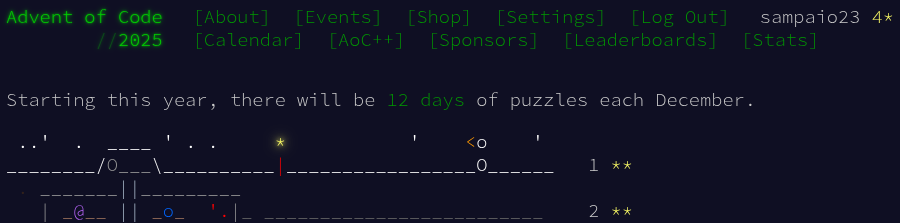
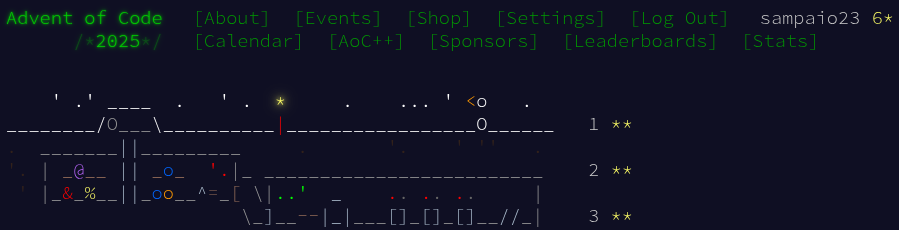
[03] Day 03 done

diff --git a/03/part2.rs b/03/part2.rs
@@ -1,0 +1,45 @@
+use std::fs::File;
+use std::io::Read;
+use std::path::Path;
+
+fn main() {
+    let path = Path::new("input");
+    let display = path.display();
+
+    let mut file = match File::open(&path) {
+        Err(why) => panic!("couldn't open {}: {}", display, why),
+        Ok(file) => file,
+    };
+
+    let mut sum: u64 = 0;
+
+    let mut s = String::new();
+    match file.read_to_string(&mut s) {
+        Err(why) => panic!("couldn't read {}: {}", display, why),
+        Ok(_) => {
+            for line in s.lines() {
+                let length = line.trim().chars().count();
+                let mut first_index: usize = 0;
+                let mut max: u64 = 0;
+                let mut new_max: u32 = 0;
+
+                let digits: usize = 12;
+                for j in 1..=digits {
+                    for i in first_index..(length-(digits-j)) {
+                        if line.trim().chars().nth(i).unwrap().to_digit(10).unwrap() > new_max {
+                            first_index = i;
+                            new_max = line.trim().chars().nth(i).unwrap().to_digit(10).unwrap();
+                        }
+                    }
+                    max = 10*max + (new_max as u64);
+                    new_max = 0;
+                    first_index += 1;
+                }
+
+                sum += max as u64;
+            }
+        }
+    };
+
+    println!("Result: {}", sum);
+}
